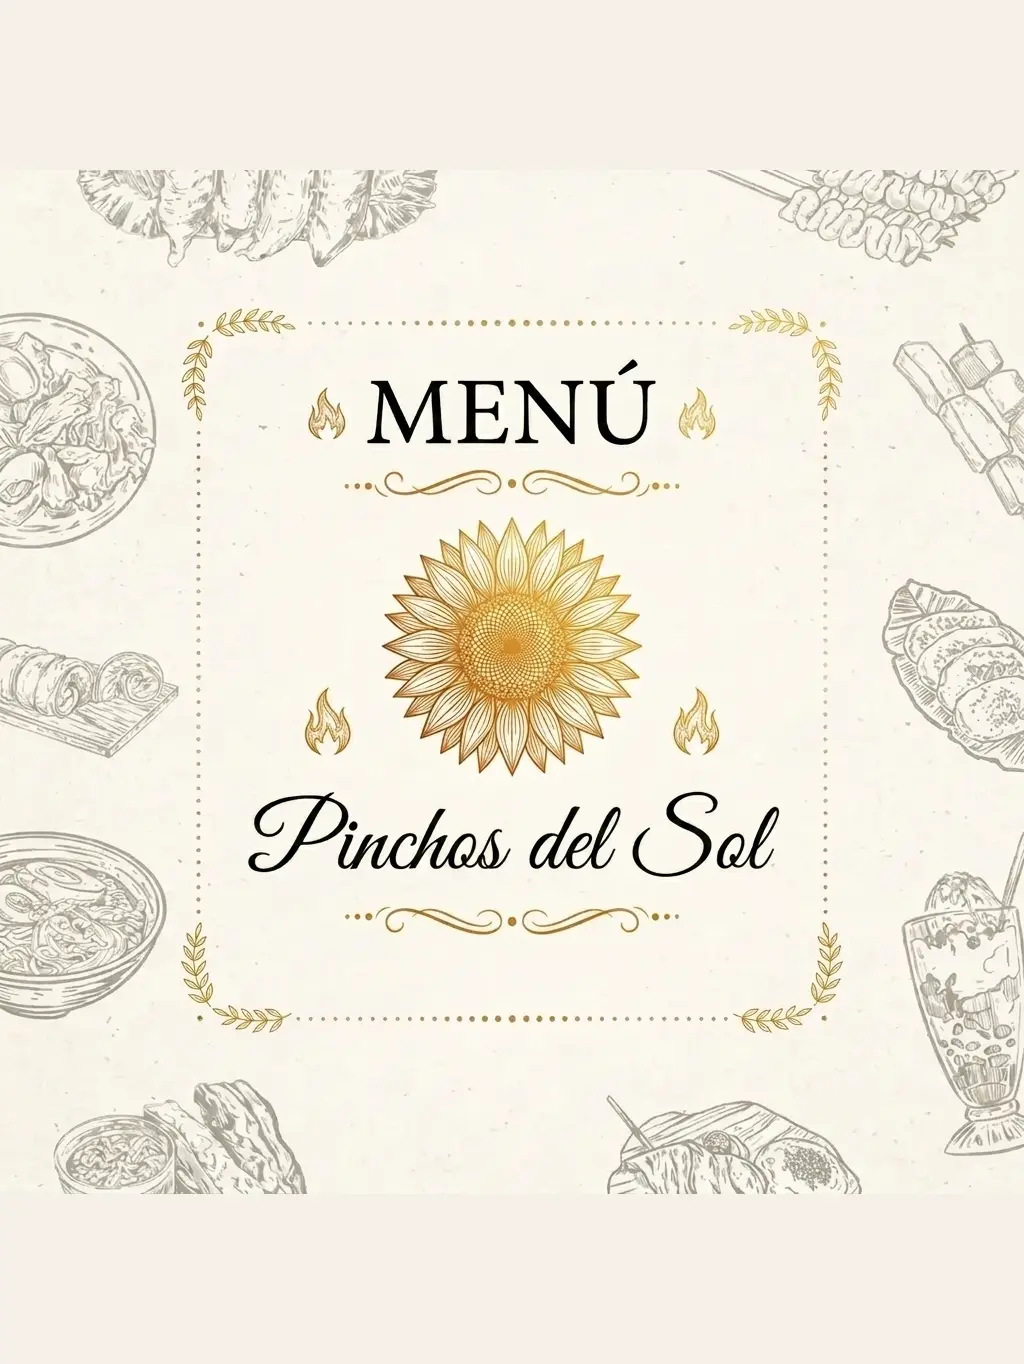
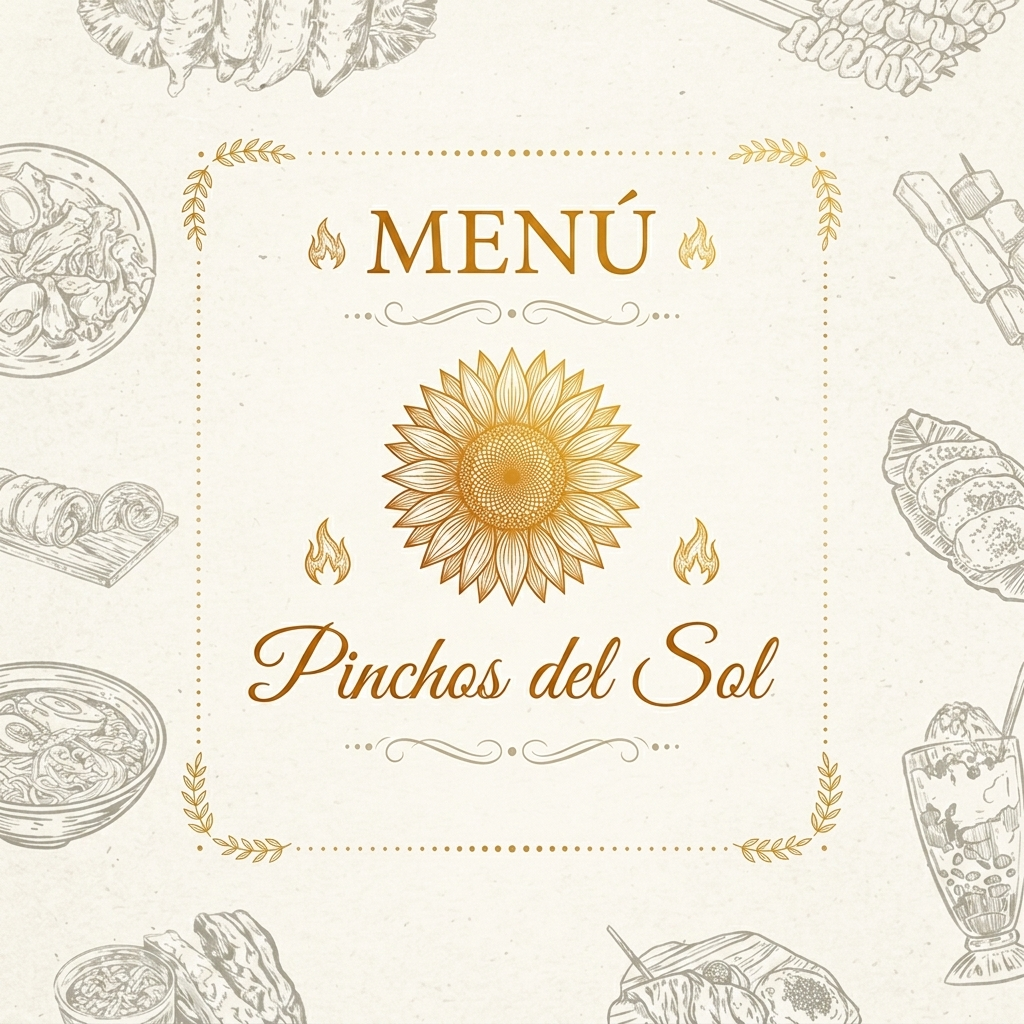
Fix cover cropping on mobile: use object-contain and exact matching background color so image displays fully without borders

diff --git a/components/templates/BookTemplate.tsx b/components/templates/BookTemplate.tsx
@@ -287,7 +287,7 @@ export function BookTemplate({ catalog }: { catalog: Catalog }) {
                 {catalog.coverImage && (
                   <>
                     <Image src={asset(catalog.coverImage)} alt="" fill priority
-                      className="object-cover"
+                      className="object-contain object-center"
                       sizes="100vw" />
                     {catalog.hideCoverText ? (
                       /* Modo sin texto: la imagen ya está diseñada perfectamente, solo una viñeta muy sutil para dar forma al libro */

diff --git a/data/catalogs/del-sol.ts b/data/catalogs/del-sol.ts
@@ -13,8 +13,8 @@ export const delSol: Catalog = {
   template: 'book',
   minimumOrder: 0,
   theme: {
-    coverBg: '#0c0a09',
-    coverTitle: '#ffffff',
+    coverBg: '#f5f0e8',         // color exacto del fondo de la imagen para fusión perfecta
+    coverTitle: '#000000',
     coverTagline: '#fed7aa',
     pageBg: '#fdf0d5',          // crema-dorado cálido (pergamino)
     pageText: '#7c2d12',        // rojo-tierra oscuro (mejor contraste)
